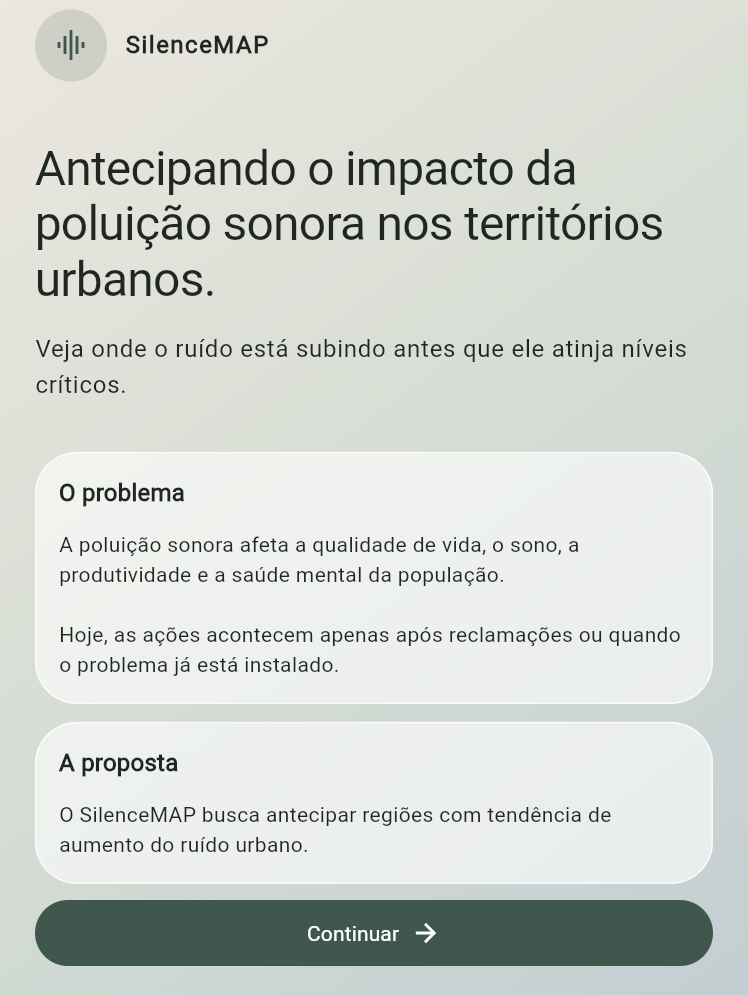
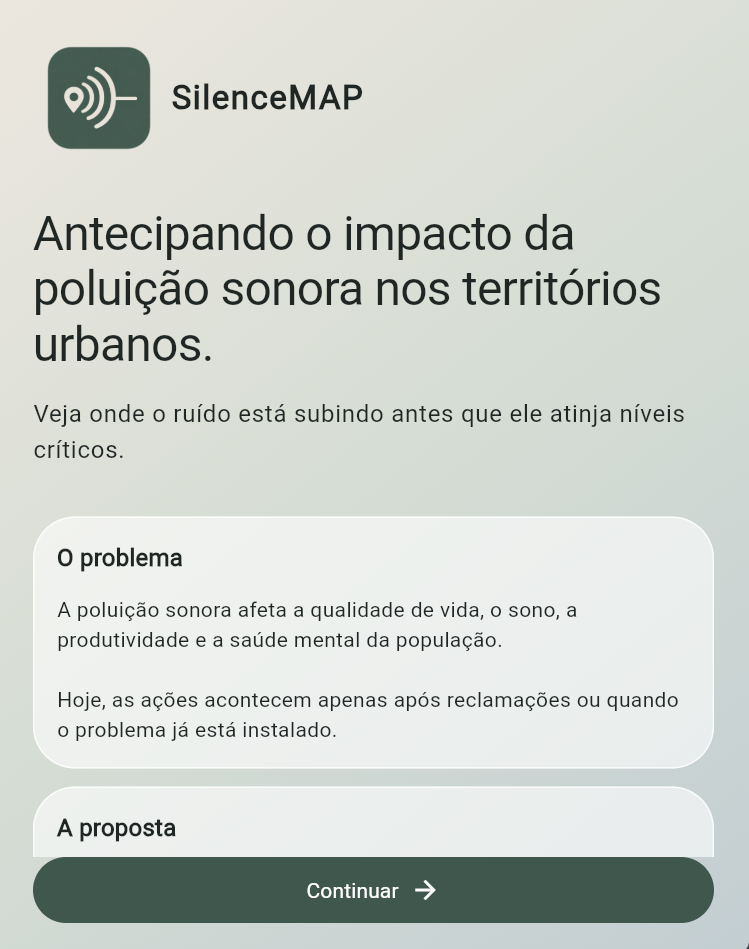
atualizacoes no APP

diff --git a/lib/ui/screens/consent_screen.dart b/lib/ui/screens/consent_screen.dart
@@ -25,44 +25,82 @@ class _ConsentScreenState extends State<ConsentScreen> {
           children: [
             Expanded(
               child: ListView(
-                padding: const EdgeInsets.all(24),
+                padding: const EdgeInsets.fromLTRB(24, 24, 24, 16),
                 children: [
-                  Icon(Icons.graphic_eq, size: 56, color: cores.primary),
-                  const SizedBox(height: 12),
-                  Text('SilenceMAP',
-                      style: text.headlineMedium
-                          ?.copyWith(fontWeight: FontWeight.bold)),
-                  const SizedBox(height: 4),
+                  Row(
+                    children: [
+                      Image.asset(
+                        'assets/screenshots/logo.png',
+                        width: 88,
+                        height: 88,
+                        fit: BoxFit.contain,
+                        semanticLabel: 'Logo do SilenceMAP',
+                        errorBuilder: (context, erro, pilha) => SizedBox(
+                          width: 88,
+                          height: 88,
+                          child: Icon(Icons.graphic_eq,
+                              size: 48, color: cores.primary),
+                        ),
+                      ),
+                      const SizedBox(width: 4),
+                      Text(
+                        'SilenceMAP',
+                        style: text.titleLarge?.copyWith(
+                          fontWeight: FontWeight.w600,
+                          letterSpacing: 1.0,
+                        ),
+                      ),
+                    ],
+                  ),
+                  const SizedBox(height: 28),
                   Text(
-                    'Antecipando o impacto da poluição sonora nos territórios urbanos.',
+                    'Sua privacidade em primeiro lugar.',
+                    style: text.headlineLarge,
+                  ),
+                  const SizedBox(height: 16),
+                  Text(
+                    'Antes de começar, veja como o SilenceMAP trata os seus dados.',
                     style: text.bodyLarge,
                   ),
-                  const SizedBox(height: 24),
+                  const SizedBox(height: 32),
                   const SectionCard(
                     title: 'Seus dados e sua privacidade',
                     child: Column(
                       children: [
                         _Item('Não pedimos nome, e-mail nem telefone.'),
-                        _Item('As ocorrências que você registrar ficam salvas só neste aparelho.'),
-                        _Item('A localização é informada apenas por bairro, nunca o endereço exato.'),
-                        _Item('Os dados de ruído deste app são sintéticos, feitos para demonstração.'),
-                        _Item('Você pode revogar o consentimento a qualquer momento em Configurações.'),
+                        _Item(
+                            'As ocorrências que você registrar ficam salvas só neste aparelho.'),
+                        _Item(
+                            'A localização é informada apenas por bairro, nunca o endereço exato.'),
+                        _Item(
+                            'Os dados de ruído deste app são sintéticos, feitos para demonstração.'),
+                        _Item(
+                            'Você pode revogar o consentimento a qualquer momento em Configurações.'),
                       ],
                     ),
                   ),
                   const SizedBox(height: 12),
                   const SectionCard(
                     title: 'Como usar os alertas',
-                    child: Text(
-                      'Os alertas são um apoio à decisão e mostram a justificativa. '
-                      'A decisão final é sempre humana.',
+                    child: Row(
+                      crossAxisAlignment: CrossAxisAlignment.start,
+                      children: [
+                        Icon(Icons.person_outline),
+                        SizedBox(width: 8),
+                        Expanded(
+                          child: Text(
+                            'Os alertas são um apoio à decisão e mostram a '
+                            'justificativa. A decisão final é sempre humana.',
+                          ),
+                        ),
+                      ],
                     ),
                   ),
                 ],
               ),
             ),
             Padding(
-              padding: const EdgeInsets.fromLTRB(16, 0, 16, 16),
+              padding: const EdgeInsets.fromLTRB(24, 0, 24, 20),
               child: Column(
                 children: [
                   CheckboxListTile(
@@ -70,13 +108,22 @@ class _ConsentScreenState extends State<ConsentScreen> {
                     controlAffinity: ListTileControlAffinity.leading,
                     value: _aceito,
                     onChanged: (v) => setState(() => _aceito = v ?? false),
-                    title: const Text('Li e concordo com o uso dos meus dados como descrito acima.'),
+                    title: const Text(
+                        'Li e concordo com o uso dos meus dados como descrito acima.'),
                   ),
+                  const SizedBox(height: 8),
                   FilledButton(
                     onPressed: _aceito
                         ? () => context.read<SettingsProvider>().acceptConsent()
                         : null,
-                    child: const Text('Aceitar e continuar'),
+                    child: const Row(
+                      mainAxisSize: MainAxisSize.min,
+                      children: [
+                        Text('Aceitar e continuar'),
+                        SizedBox(width: 8),
+                        Icon(Icons.arrow_forward, size: 20),
+                      ],
+                    ),
                   ),
                 ],
               ),

diff --git a/lib/ui/screens/justification_screen.dart b/lib/ui/screens/justification_screen.dart
@@ -23,7 +23,7 @@ class JustificationScreen extends StatelessWidget {
                   Row(
                     children: [
                       Image.asset(
-                      'assets/images/logo.png',
+                        'assets/screenshots/logo.png',
                         width: 88,
                         height: 88,
                         fit: BoxFit.contain,
